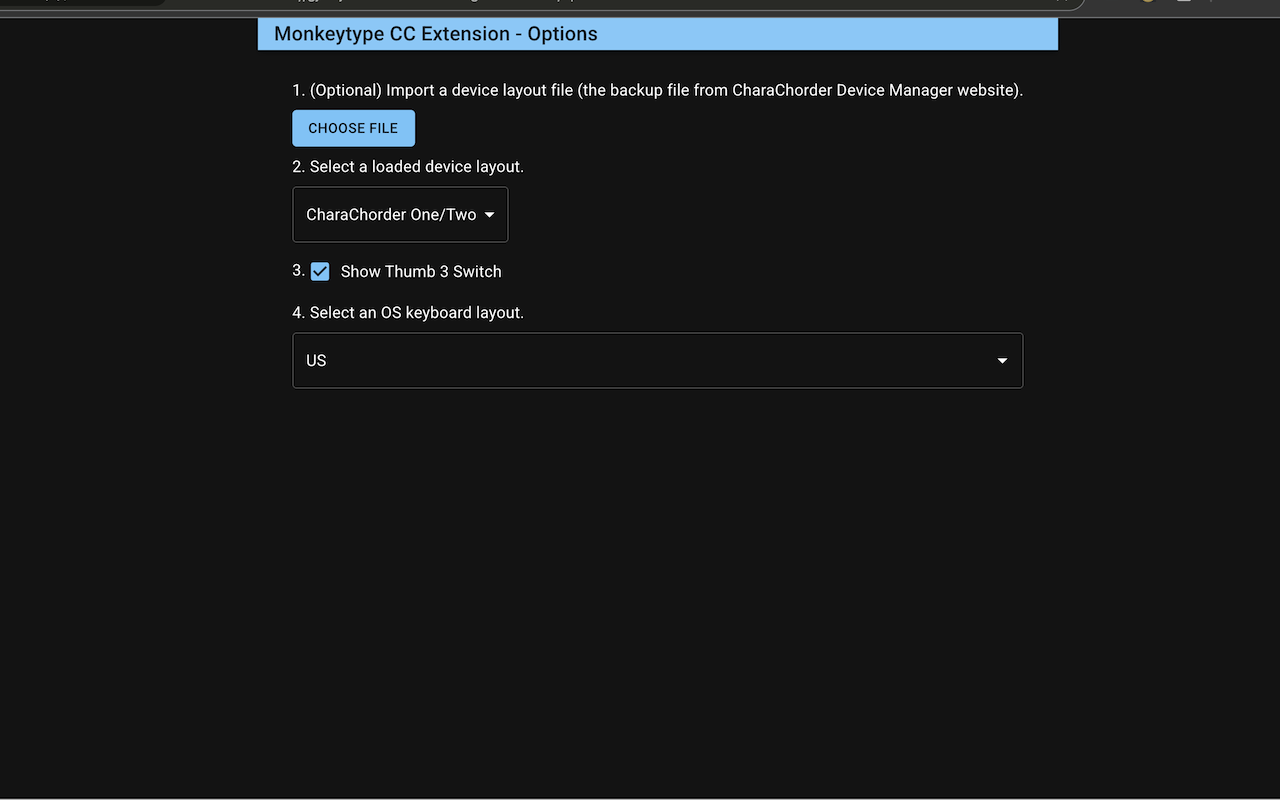
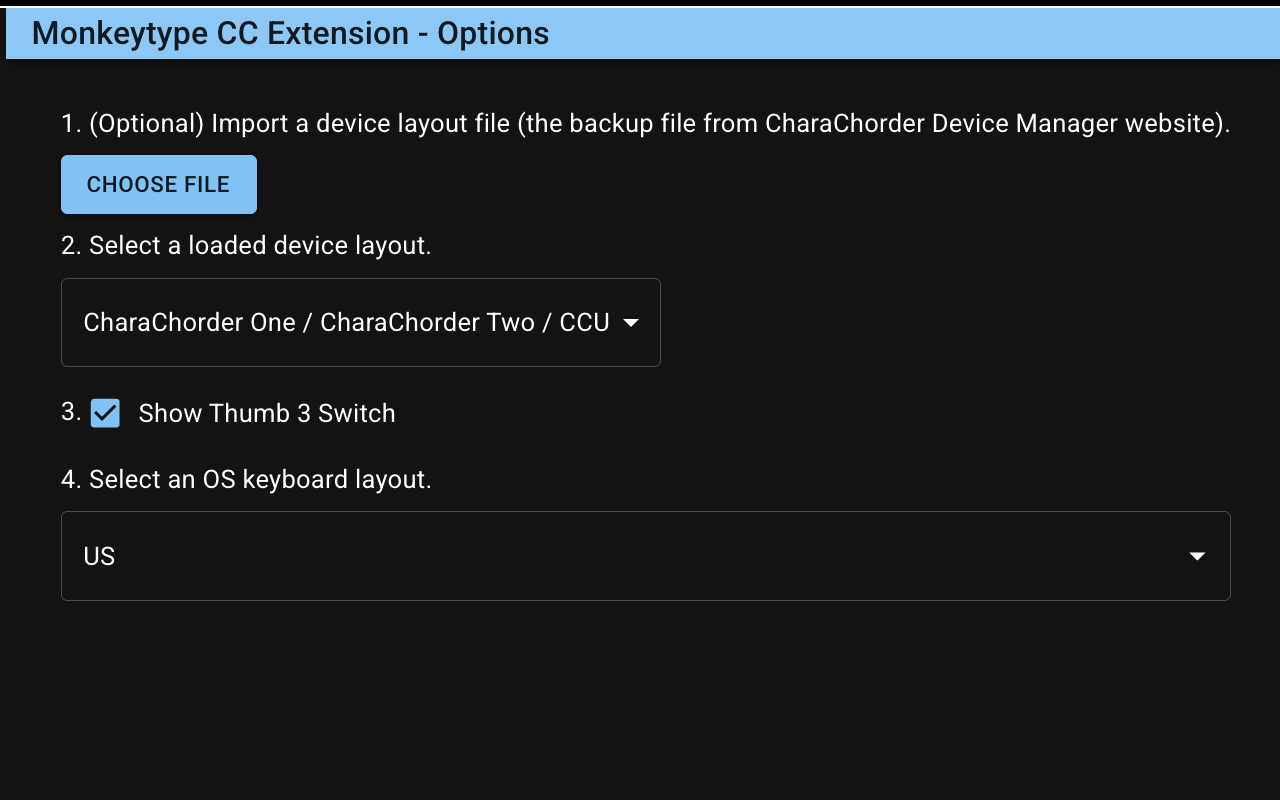
chore: bump version to 4.0

diff --git a/CHANGELOG.md b/CHANGELOG.md
@@ -1,6 +1,6 @@
 # Changelog
 
-## Unreleased
+## [4.0](https://github.com/andy23512/monkeytype-cc-extension/releases/tag/4.0)
 
 - Support fourth layer
 - Add CCU
